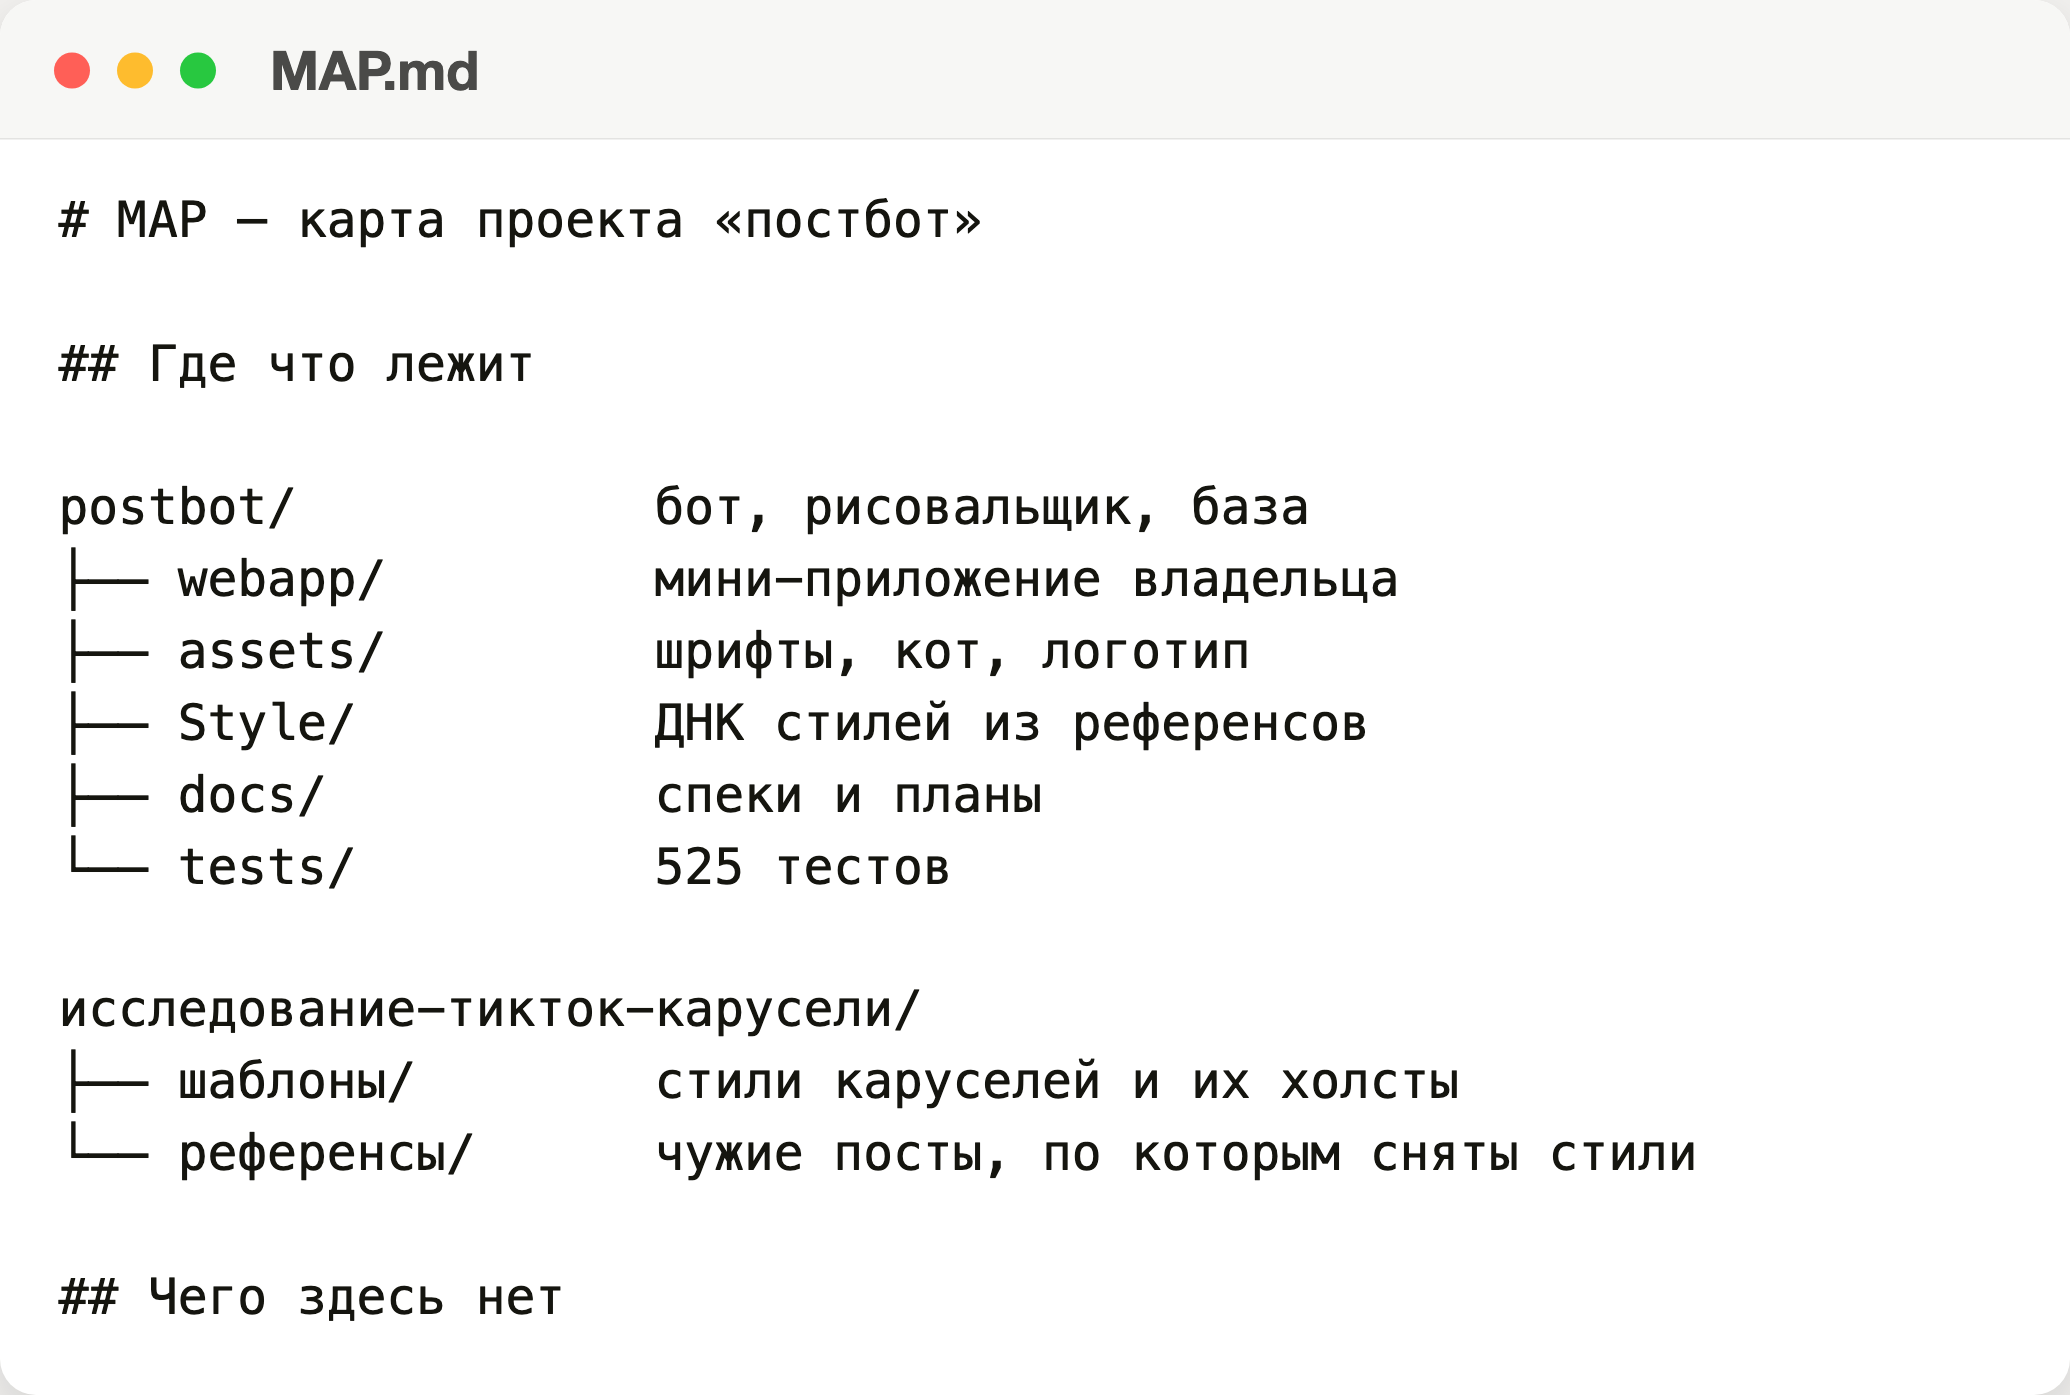
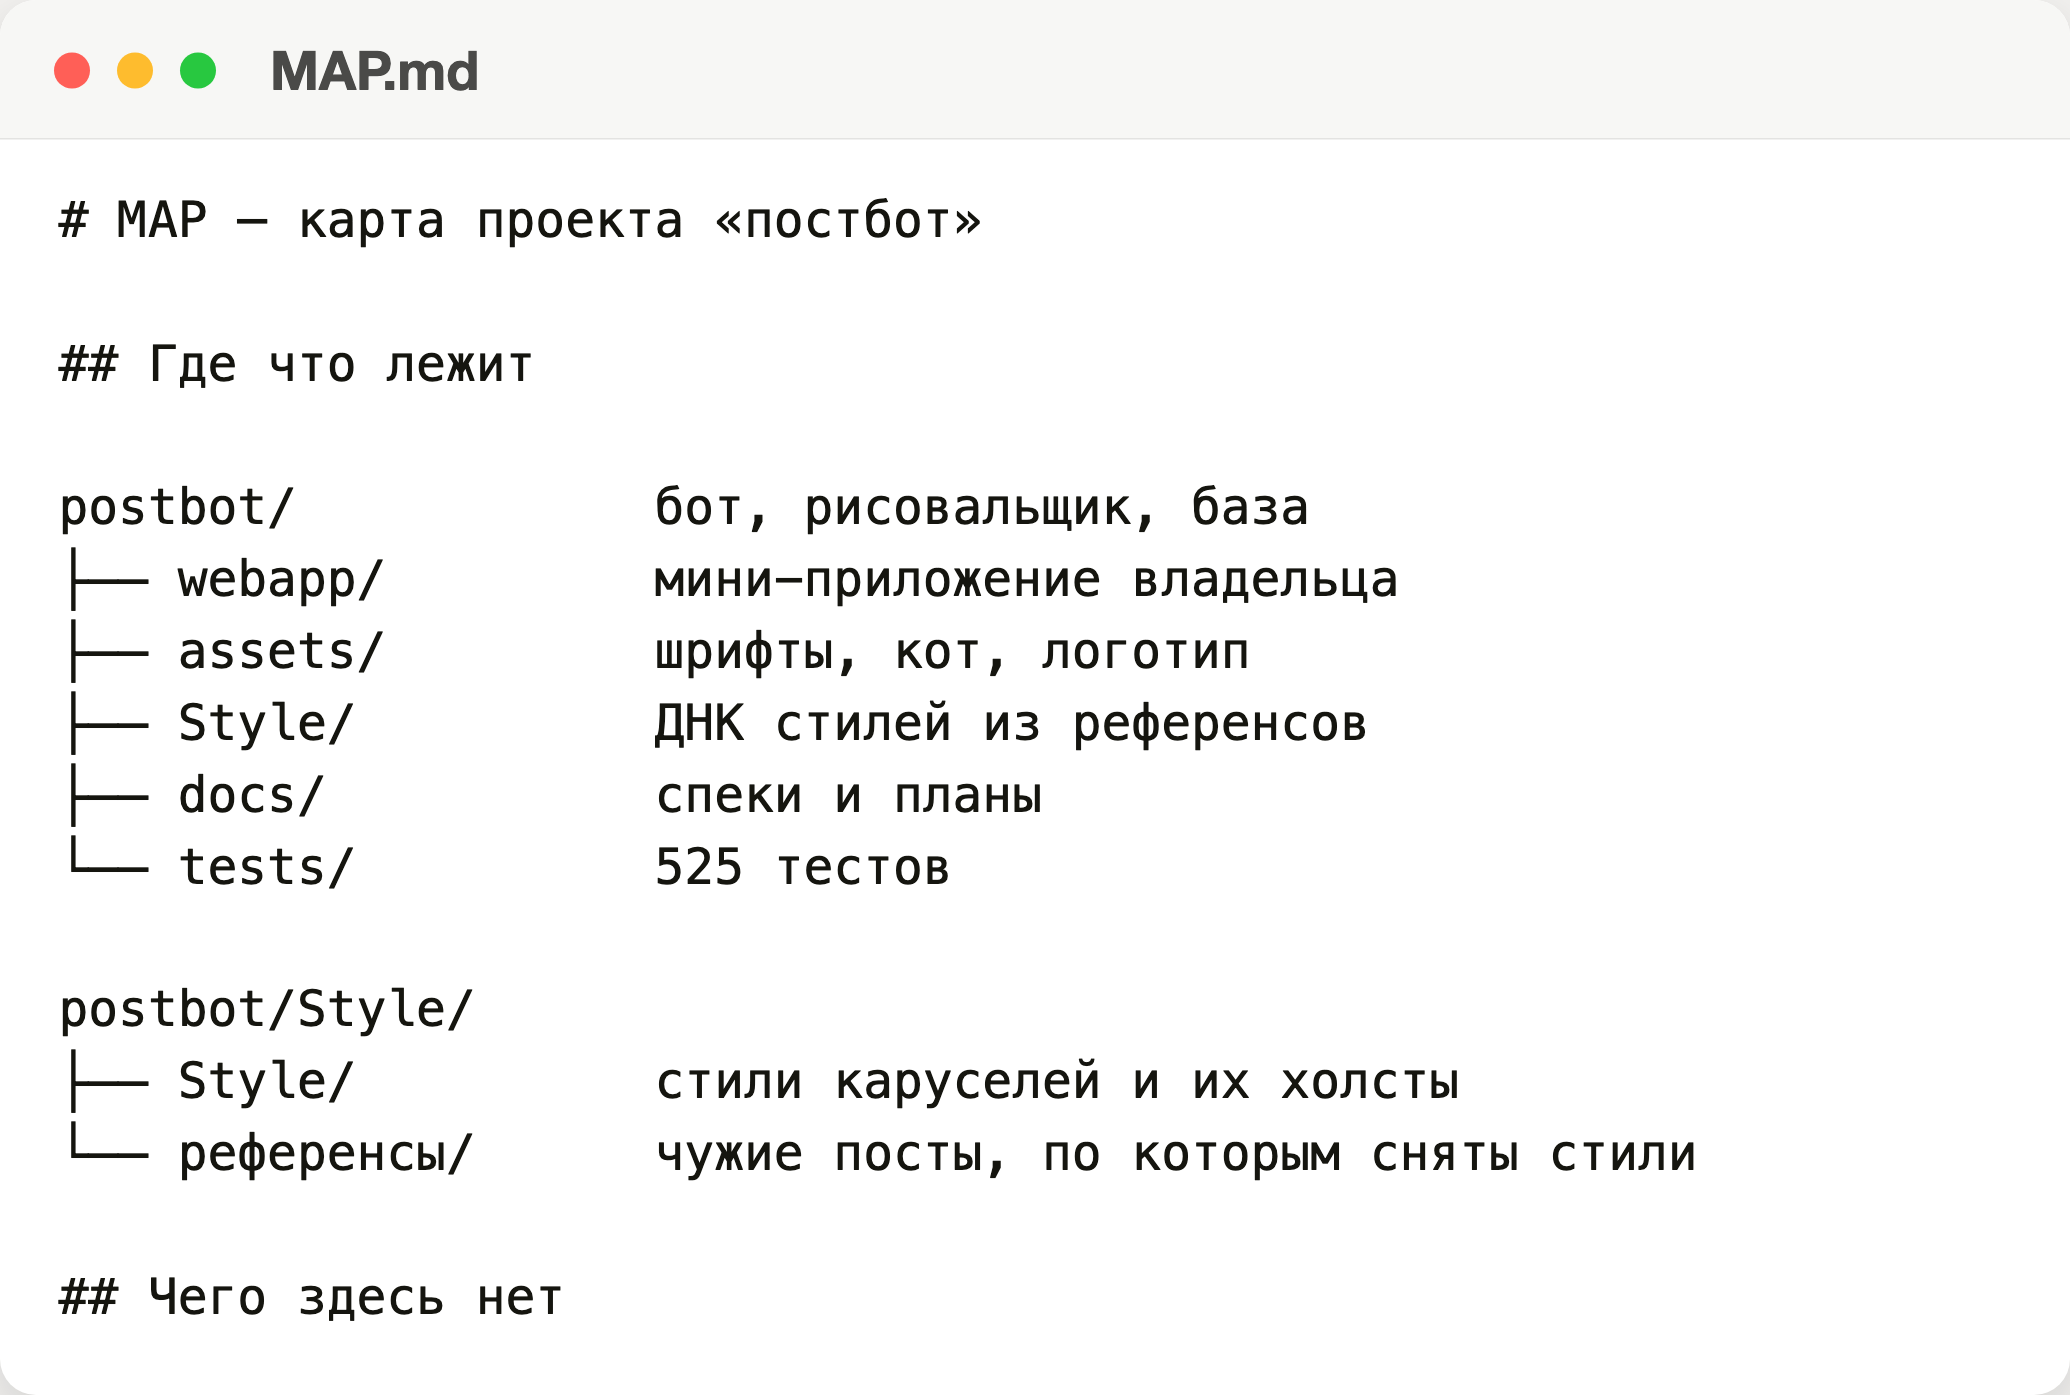
Три файла, слайд 2: плашка не налезает на карточки, таблица без обрезанной строки
Колонка имени в снимке списка файлов шире: длинное имя папки больше не
слипается с датой. Между карточками, плашкой и снимком запас 40 px.

Changed region(s): [[0.0309, 0.709, 0.4329, 0.8014]]

diff --git a/Style/светлый-разбор/снимки.py b/Style/светлый-разбор/снимки.py
@@ -118,9 +118,9 @@ html,body{width:%dpx;height:%dpx;background:#F2F1EF;font-family:-apple-system,"H
 .строка{display:flex;align-items:center;height:78px;padding:0 36px;font-size:34px;color:#15150F}
 .строка:nth-child(even){background:#F6F6F4}
 .шапка-таблицы{font-size:30px;color:#66665F;font-weight:600;height:69px}
-.имя-ф{flex:1;display:flex;align-items:center;gap:14px}
-.дата{width:495px;color:#3A3A38}.размер{width:165px;text-align:right;color:#3A3A38}
-.тип{width:285px;text-align:right;color:#3A3A38}
+.имя-ф{flex:1;min-width:0;display:flex;align-items:center;gap:14px;white-space:nowrap}
+.дата{width:420px;color:#3A3A38}.размер{width:110px;text-align:right;color:#3A3A38}
+.тип{width:250px;text-align:right;color:#3A3A38}
 .значок{width:39px;height:33px;border-radius:4px;background:#39C46B}
 .значок.файл{background:#DCDCD8}
 """
